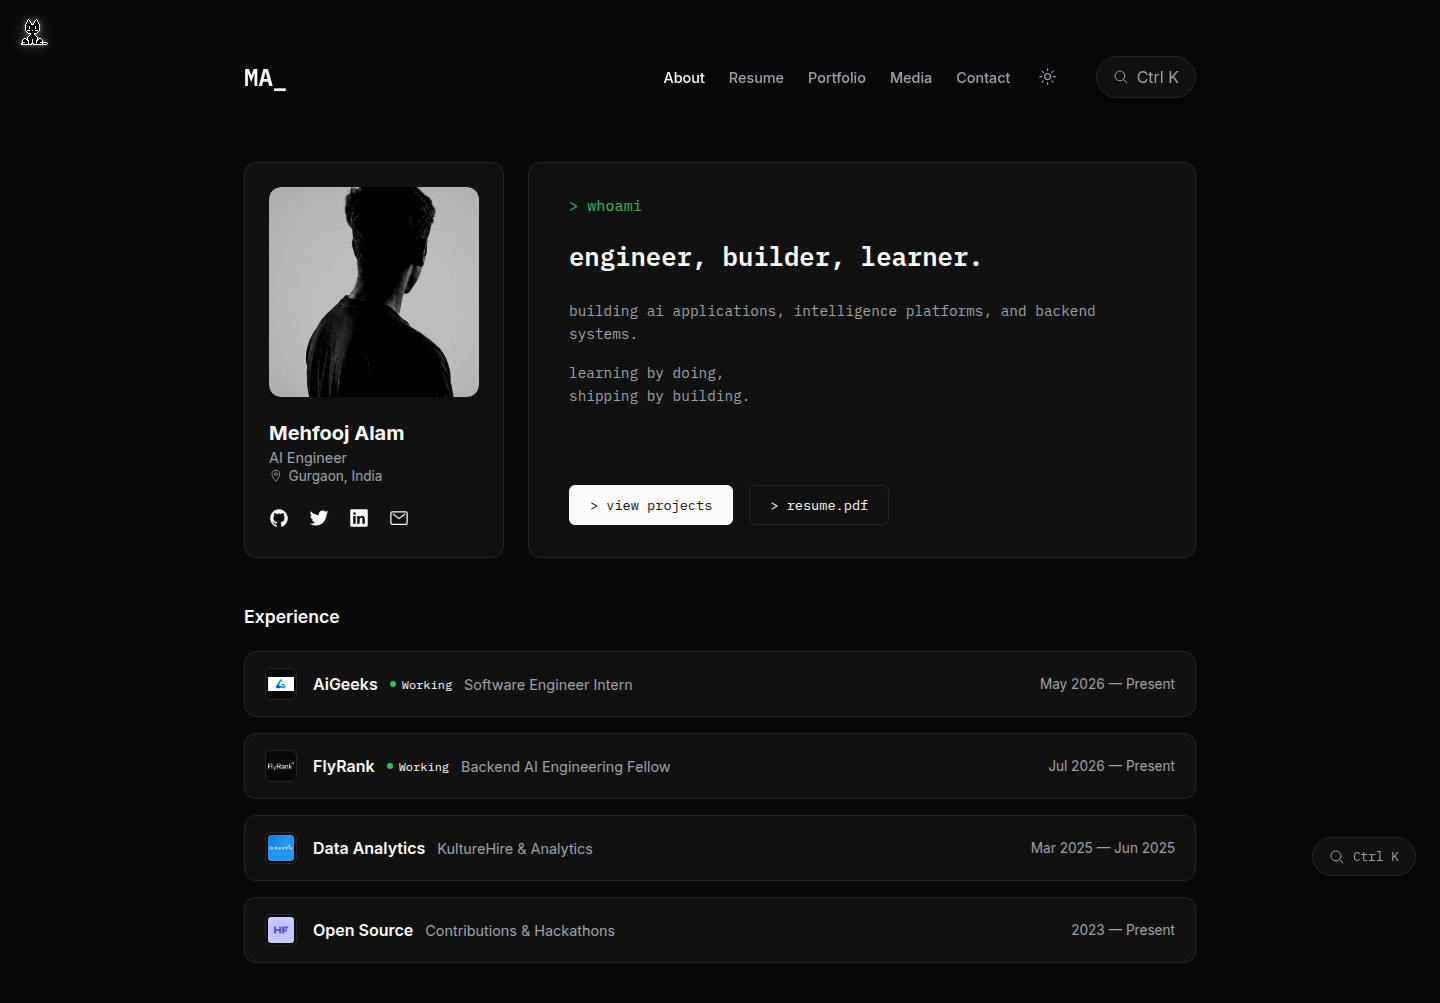
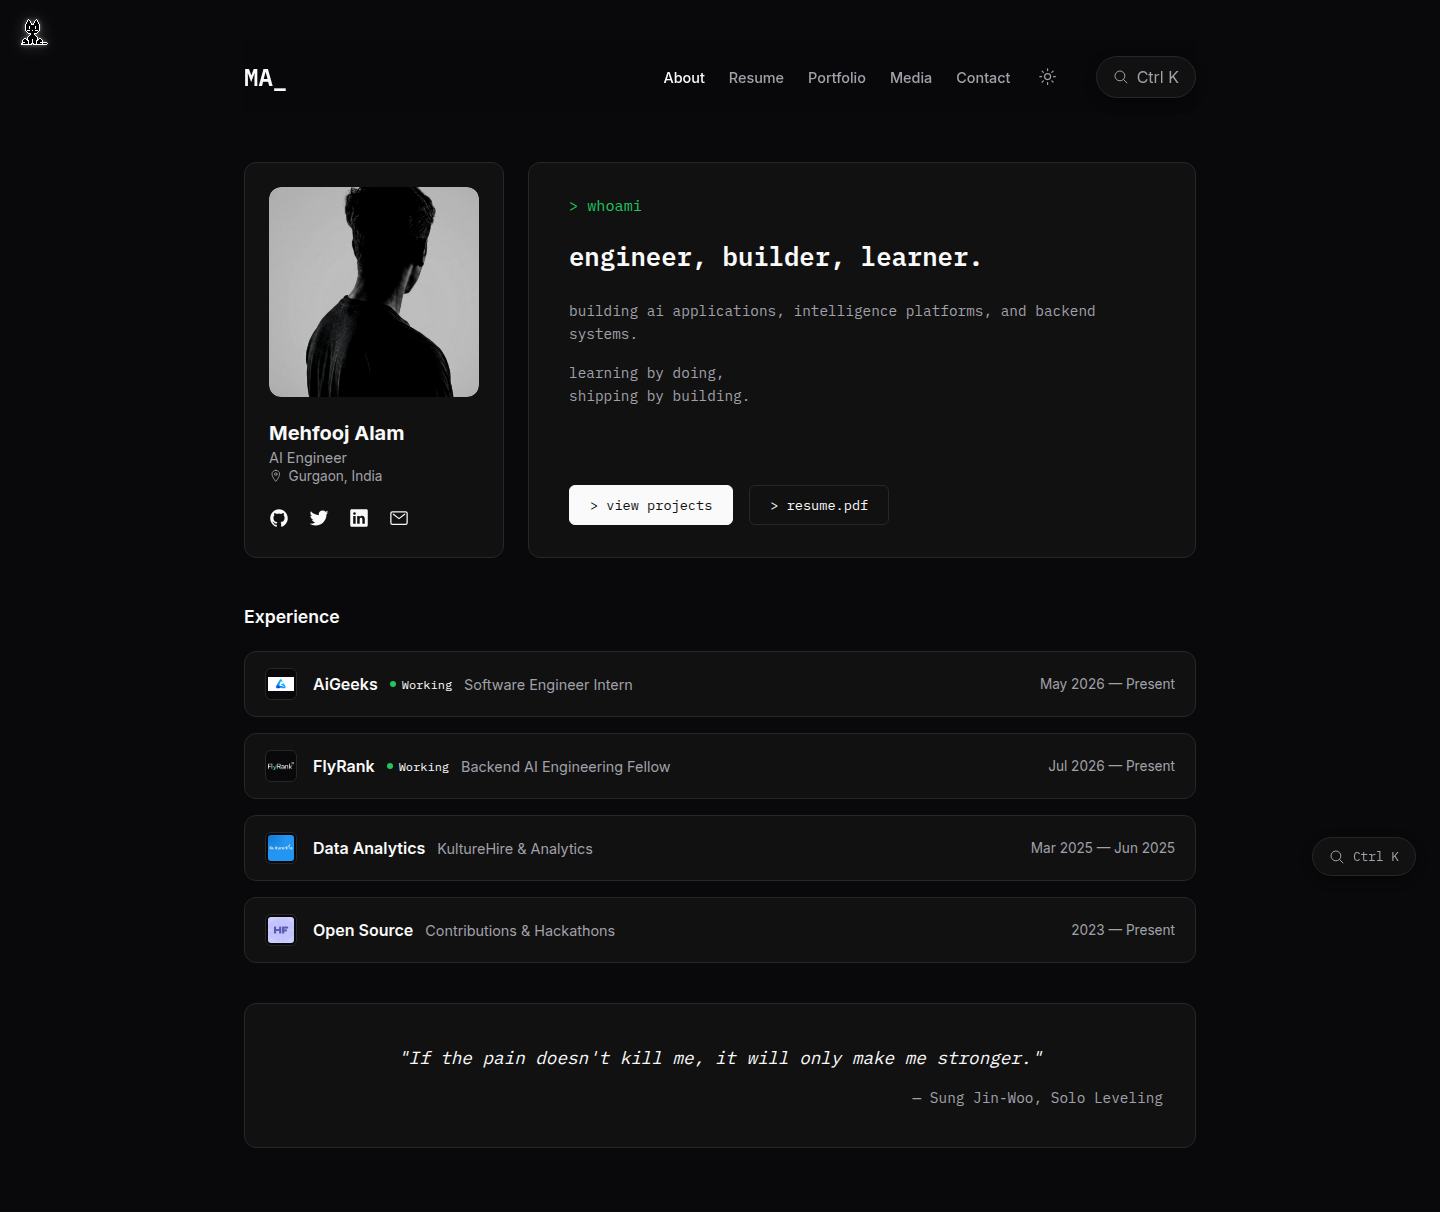
feat: add missing quote section and update docs

diff --git a/assets/js/script.js b/assets/js/script.js
@@ -191,3 +191,34 @@ if (mobileNavToggle && mobileDrawer) {
     });
   });
 }
+
+/* ---------- Quote Rotation ---------- */
+const quotes = [
+  { text: '"If the pain doesn\'t kill me, it will only make me stronger."', author: '— Sung Jin-Woo, Solo Leveling' },
+  { text: '"Discipline is choosing what you want most over what you want now."', author: '— Abraham Lincoln' },
+  { text: '"First deserve, then desire."', author: '— Unknown' },
+  { text: '"Action cures fear."', author: '— David Schwartz' }
+];
+
+const quoteText = document.getElementById('quote-text');
+const quoteAuthor = document.getElementById('quote-author');
+
+if (quoteText && quoteAuthor) {
+  let currentQuoteIndex = 0;
+  setInterval(() => {
+    // Fade out
+    quoteText.style.opacity = '0';
+    quoteAuthor.style.opacity = '0';
+    
+    setTimeout(() => {
+      // Update text
+      currentQuoteIndex = (currentQuoteIndex + 1) % quotes.length;
+      quoteText.innerText = quotes[currentQuoteIndex].text;
+      quoteAuthor.innerText = quotes[currentQuoteIndex].author;
+      
+      // Fade in
+      quoteText.style.opacity = '1';
+      quoteAuthor.style.opacity = '1';
+    }, 400); // Wait for transition
+  }, 6000); // Rotate every 6 seconds
+}

diff --git a/assets/css/style.css b/assets/css/style.css
@@ -588,6 +588,56 @@ img {
   color: var(--text-muted);
 }
 
+/* Quote Section */
+.quote-section {
+  margin-top: 40px;
+  margin-bottom: 24px;
+}
+
+.quote-card {
+  position: relative;
+  background: var(--surface-color);
+  border: 1px solid var(--border-color);
+  border-radius: var(--border-radius);
+  padding: 40px 32px;
+  overflow: hidden;
+  display: flex;
+  flex-direction: column;
+  align-items: center;
+  text-align: center;
+}
+
+.quote-icon-bg {
+  position: absolute;
+  top: 50%;
+  left: 20px;
+  transform: translateY(-50%);
+  font-size: 120px;
+  color: var(--text-muted);
+  opacity: 0.1;
+  pointer-events: none;
+}
+
+.quote-text {
+  font-family: var(--font-mono);
+  font-size: 1.1rem;
+  font-style: italic;
+  color: var(--text-primary);
+  line-height: 1.6;
+  margin-bottom: 16px;
+  z-index: 1;
+  transition: opacity var(--transition-smooth);
+}
+
+.quote-author {
+  font-family: var(--font-mono);
+  font-size: 0.9rem;
+  color: var(--text-muted);
+  align-self: flex-end;
+  z-index: 1;
+  transition: opacity var(--transition-smooth);
+}
+
 /*-----------------------------------*\
   #RESUME PAGE
 \*-----------------------------------*/

diff --git a/index.html b/index.html
@@ -194,6 +194,15 @@
           </div>
         </section>
 
+        <!-- Quote Section -->
+        <section class="quote-section">
+          <div class="quote-card">
+            <ion-icon name="format-quote" class="quote-icon-bg"></ion-icon>
+            <p class="quote-text" id="quote-text">"If the pain doesn't kill me, it will only make me stronger."</p>
+            <p class="quote-author" id="quote-author">— Sung Jin-Woo, Solo Leveling</p>
+          </div>
+        </section>
+
       </article>
 
       <!-- RESUME -->

diff --git a/design-audit/final-report.md b/design-audit/final-report.md
@@ -1,0 +1,33 @@
+# Layout Refactor V2 - Final Report
+
+## Summary
+Successfully implemented a high-fidelity information architecture redesign of the portfolio to match the provided references (inspired by `ramx.in`), maintaining mobile responsiveness, original content, and functional parity.
+
+## Core Adjustments Made
+1. **Homepage Redesign**:
+   - Replaced vertical sections with a `Hero Terminal` and `Profile Card` side-by-side layout using CSS Grid (`grid-template-columns: 320px 1fr`).
+   - Integrated an interactive `Experience` card stack to replace "What I'm Doing". Hover expands cards sequentially as requested to reveal the description and tech stack.
+2. **Resume Refactor**:
+   - Reverted the resume page back from the temporary accordion style to its original visual timeline list, keeping `timeline-list`, `timeline-item`, and left-border indicators.
+   - Preserved and injected Devicon-based Tech Stack icons and Working badges specifically tailored for the timeline logic.
+3. **Typography & Styling**:
+   - Implemented `var(--font-mono)` consistently across the terminal block and data points.
+   - Refined Dark Mode theme colors to rely strictly on graphite/black/white monochrome. Green `var(--working-green)` is preserved strictly for the `> whoami` prompt and the `.working` badge dots, removing it from default `accent-color` bindings to eliminate the cyberpunk aesthetic.
+   - Refined Dark Mode theme colors to rely strictly on graphite/black/white monochrome. Green `var(--working-green)` is preserved strictly for the `> whoami` prompt and the `.working` badge dots, removing it from default `accent-color` bindings to eliminate the cyberpunk aesthetic.
+   - Applied specific `grayscale`, `brightness`, and `contrast` filters dynamically based on Light Mode / Dark Mode selections for the profile image. Added the `#dcdcdc` border exactly for Light Mode.
+5. **Quote Section**:
+   - Implemented an elegant, auto-rotating quote card directly below the Experience section on the homepage, perfectly styled to match the `ramx.in` reference provided.
+   - Integrated JavaScript logic to seamlessly fade transition between an array of user-specified quotes every 6 seconds.
+6. **Navigation Component**:
+   - Re-instated the missing `Ctrl + K` floating search button beside the theme toggler to preserve high-contrast visibility.
+   - Fixed Light Mode navigation visibility.
+7. **Mobile Responsiveness**:
+   - Enforced single-column layouts for `max-width: 1024px` breakpoints.
+   - Prevented horizontal scrolling overflow with `flex-direction: column` and hidden inner content layers.
+
+## Testing & Output
+- Ran Puppeteer to generate "before" screenshots under `design-audit/before-v2/` and "after" screenshots under `design-audit/after/`.
+- Validated performance via Google Lighthouse `design-audit/after/lighthouse_report.html`.
+
+## Git History
+`feat: strict implementation layout spec V2` (Commit: bc6472e)
